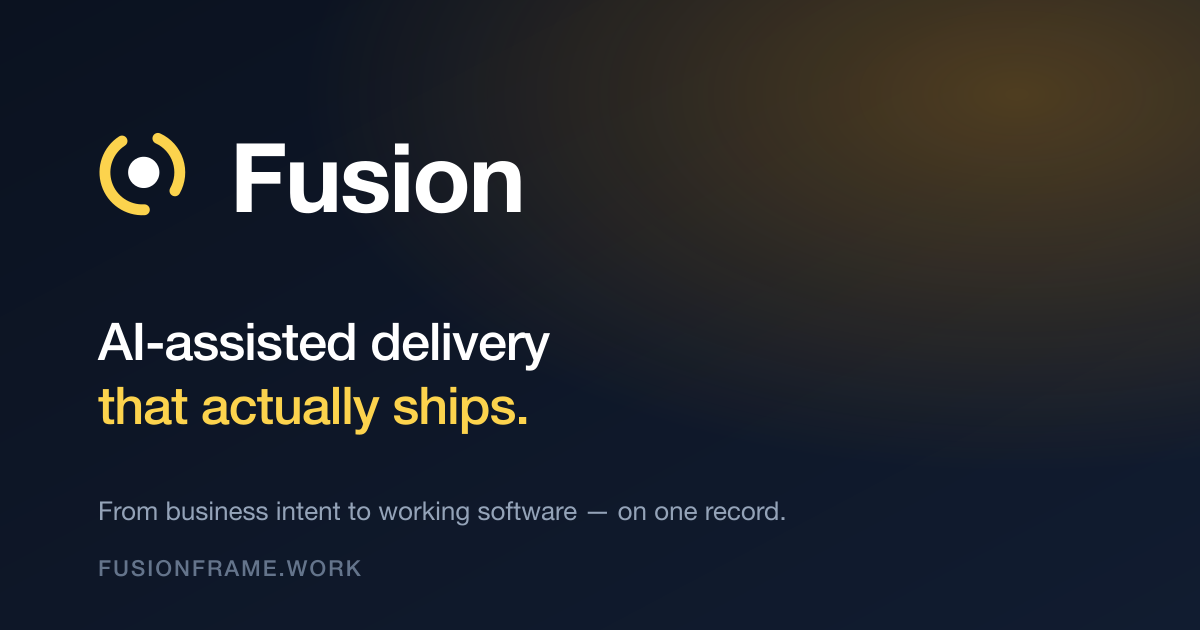
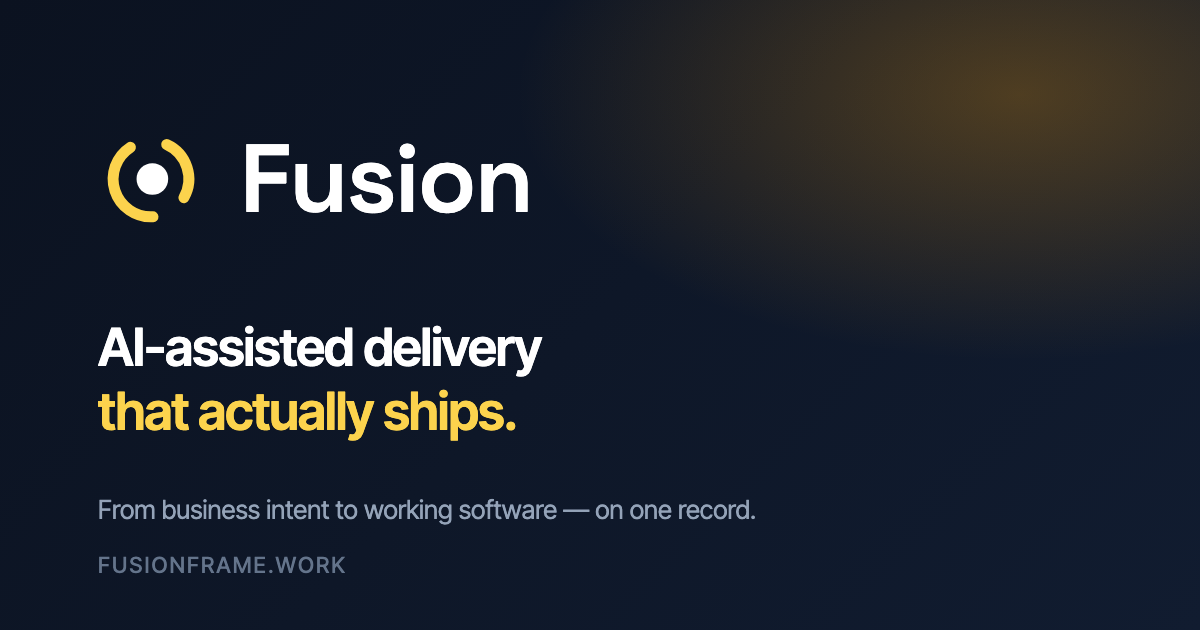
Set the wordmark in Space Grotesk 600
Judged 8 candidate faces in a real header-context harness (3-judge
panel); Space Grotesk 600 won 2-1 over Fraunces, with all judges
agreeing the Inter Tight baseline read as body text, not a wordmark.

- Header and footer logotype use a .wordmark class, loaded as a
  six-glyph Space Grotesk subset (~2KB, display:block so the brand
  name never flashes unstyled)
- Letter-spacing -0.01em per judge guidance (tighter clogs 'si')
- OG image regenerated with the new wordmark; render pipeline moved
  to headless Chrome so webfonts apply, supporting text in Inter Tight
- Redesign preview only; the live root site is untouched

diff --git a/redesign/index.html b/redesign/index.html
@@ -38,6 +38,8 @@
 <link rel="preconnect" href="https://fonts.googleapis.com">
 <link rel="preconnect" href="https://fonts.gstatic.com" crossorigin>
 <link href="https://fonts.googleapis.com/css2?family=Fraunces:opsz,wght@9..144,300;9..144,400;9..144,500;9..144,600;9..144,700&family=Inter+Tight:wght@400;500;600;700&display=swap" rel="stylesheet">
+<!-- Wordmark face only — subset to the six logotype glyphs, block display so the brand name never flashes unstyled -->
+<link href="https://fonts.googleapis.com/css2?family=Space+Grotesk:wght@600&text=Fusion&display=block" rel="stylesheet">
 
 <!-- Privacy-friendly analytics by Plausible -->
 <script async src="https://plausible.io/js/pa-ktZLDqdblhaDYlH3Rd1PY.js"></script>
@@ -78,6 +80,7 @@
 
   body { font-family: 'Inter Tight', system-ui, sans-serif; -webkit-font-smoothing: antialiased; }
   h1, h2, h3, .font-display { font-family: 'Fraunces', serif; font-feature-settings: 'ss01' on; letter-spacing: -0.02em; }
+  .wordmark { font-family: 'Space Grotesk', 'Inter Tight', sans-serif; font-weight: 600; letter-spacing: -0.01em; }
 
   .text-accent-100 { color: var(--accent-100); }
   .text-accent-200 { color: var(--accent-200); }
@@ -237,7 +240,7 @@
         </g>
         <circle cx="16.4" cy="16" r="4.6" fill="#ffffff"/>
       </svg>
-      <span class="text-xl font-semibold tracking-tight text-white">Fusion</span>
+      <span class="wordmark text-xl text-white">Fusion</span>
     </a>
 
     <nav class="hidden items-center gap-8 text-sm font-medium text-slate-300 md:flex">
@@ -480,7 +483,7 @@
 <footer class="border-t border-slate-200 bg-white py-10">
   <div class="mx-auto flex max-w-7xl flex-col justify-between gap-5 px-5 md:flex-row md:items-center">
     <div>
-      <div class="text-lg font-semibold">Fusion</div>
+      <div class="wordmark text-lg">Fusion</div>
       <p class="mt-1 text-sm text-slate-500" data-footer-tagline>Your initiative on one record, from business intent to working software. Built from real deliveries, not mockups.</p>
     </div>
     <div class="flex flex-wrap gap-6 text-sm text-slate-500">
